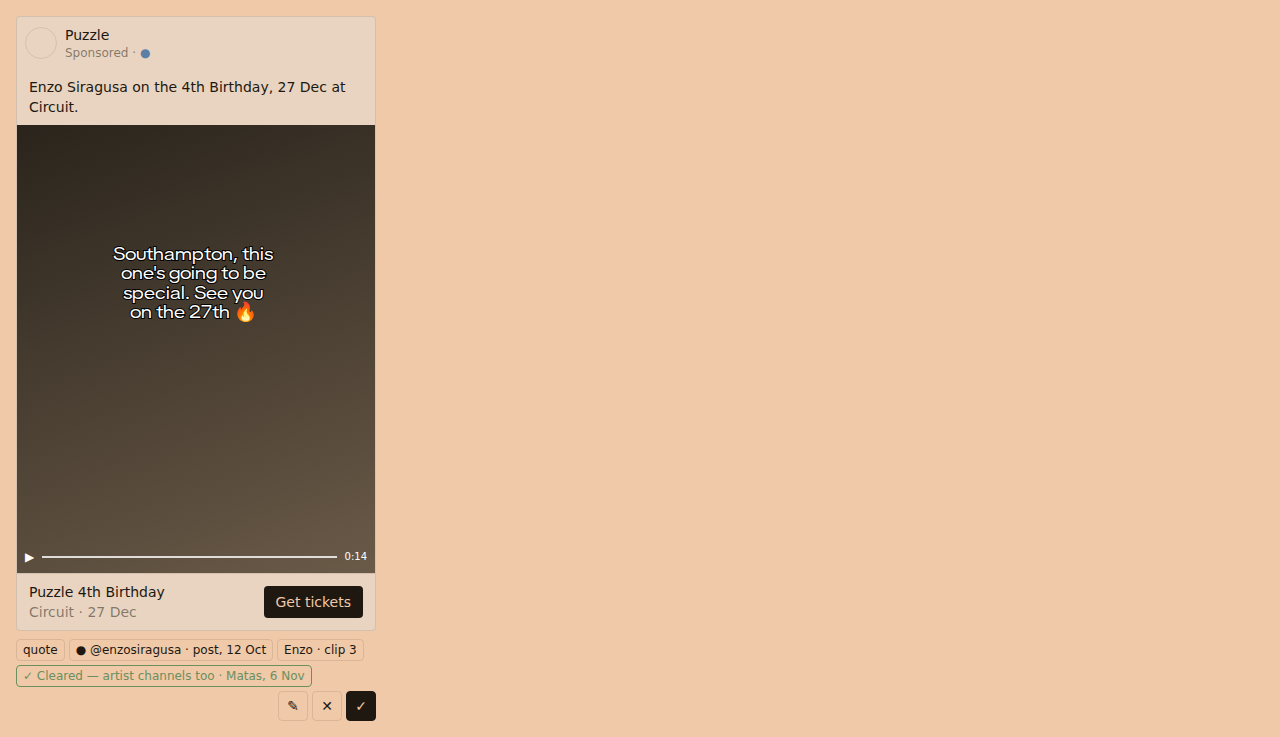
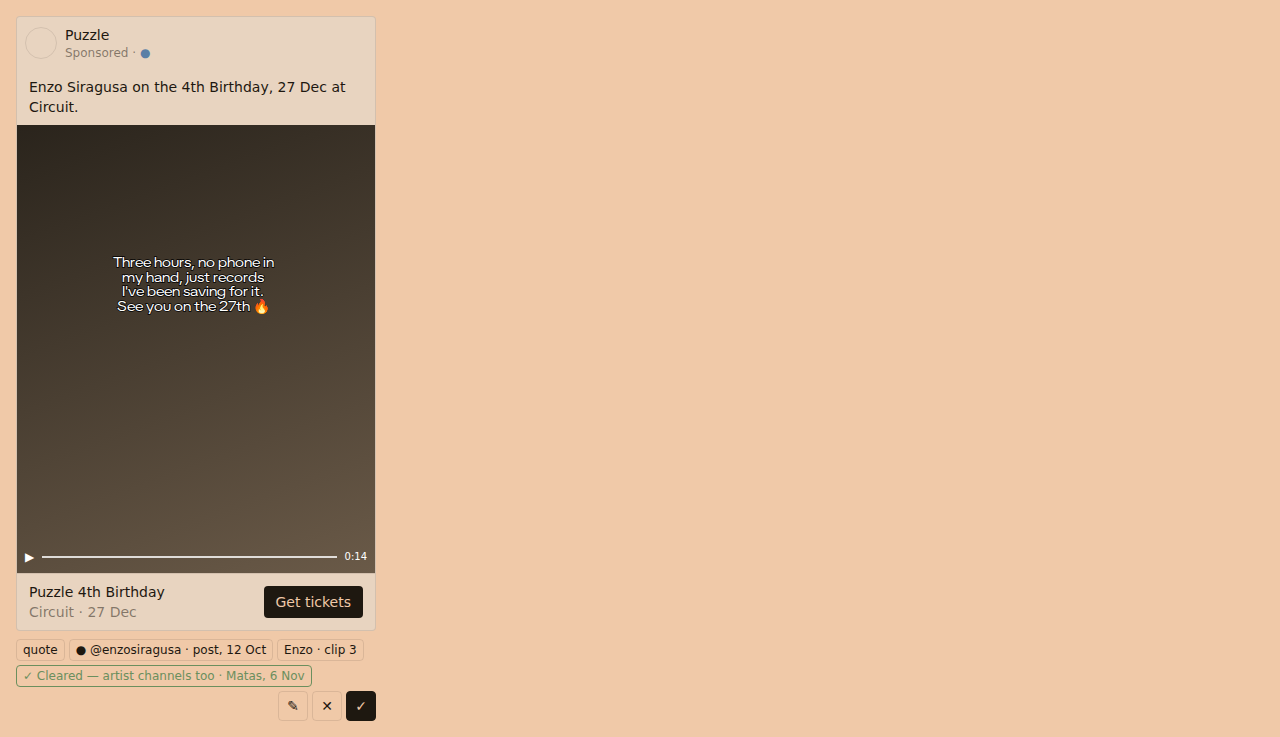
Take the Ubuntu shots for the face-check frames and the long quote.
CLP6 and CLP7 are new. CLQ2 moved because the quote now drops only its opening sentence. The round cell keeps its old alignment so the selection frame stays put.

Changed region(s): [[0.0938, 0.3121, 0.2188, 0.4369]]

diff --git a/components/dashboard/events/creative-lab/round.tsx b/components/dashboard/events/creative-lab/round.tsx
@@ -119,7 +119,7 @@ export function LabRound({
                     {captions.map((caption) => {
                       const cell = matrix.cells.find((item) => item.clipId === clip.id && item.captionId === caption.id);
                       return (
-                        <td key={caption.id} className="align-top">
+                        <td key={caption.id}>
                           <button type="button" className={`w-16 rounded border p-1 ${cell?.on ? "border-border bg-card" : "border-dashed border-border text-muted-foreground"}`} onClick={() => toggle(`${clip.id}:${caption.id}`)}>
                             <CaptionOverlay lines={[]} src={clip.previewUrl} poster={clip.thumbnailUrl} compact />
                             <span className="mt-1 block text-xs">{cell?.on ? "On" : "Off — tap to include"}</span>
